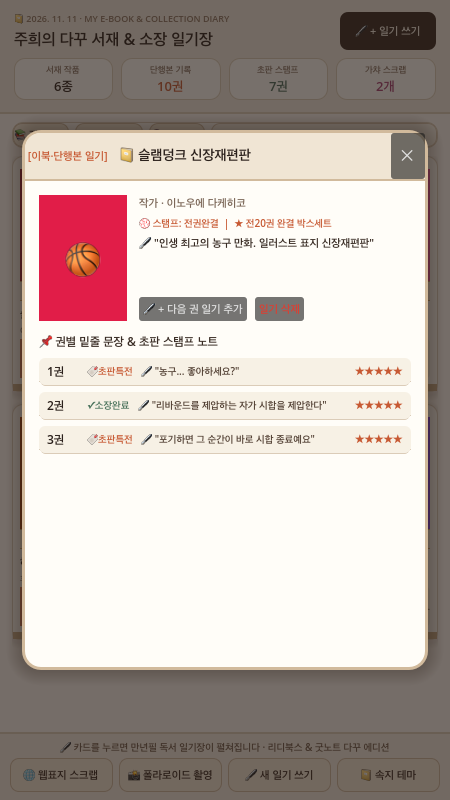
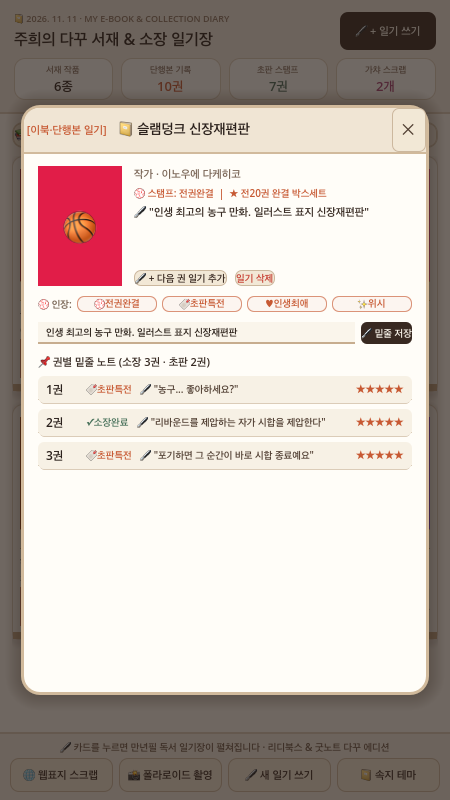
feat(game02): Sprint 8 in-diary rubber stamp picker & fountain-pen quote editor

Changed region(s): [[0.0311, 0.125, 0.9644, 0.875], [0.7156, 0.375, 0.7467, 0.4062]]

diff --git a/game02/index.html b/game02/index.html
@@ -240,6 +240,22 @@
                         </p>
                     </div>
 
+                    <!-- Sprint 8: Interactive Rubber Stamp Selector & Fountain-Pen Quote Editor -->
+                    <div class="mt-3 p-2.5 rounded-xl bg-[#faf5ed] border border-[#e6dccd] space-y-2">
+                        <div class="flex items-center gap-1.5 flex-wrap">
+                            <span class="text-[11px] font-bold text-[#786b63] mr-1">💮 인장 찍기:</span>
+                            <button onclick="applyDiaryStamp('전권완결')" class="px-2 py-0.5 rounded border border-[#c85a32]/50 bg-[#fff8f5] text-[#c85a32] text-[10px] font-bold hover:bg-[#c85a32] hover:text-white cursor-pointer">💮전권완결</button>
+                            <button onclick="applyDiaryStamp('초판특전')" class="px-2 py-0.5 rounded border border-[#c85a32]/50 bg-[#fff8f5] text-[#c85a32] text-[10px] font-bold hover:bg-[#c85a32] hover:text-white cursor-pointer">🔖초판특전</button>
+                            <button onclick="applyDiaryStamp('인생최애')" class="px-2 py-0.5 rounded border border-[#c85a32]/50 bg-[#fff8f5] text-[#c85a32] text-[10px] font-bold hover:bg-[#c85a32] hover:text-white cursor-pointer">♥인생최애</button>
+                            <button onclick="applyDiaryStamp('위시리스트')" class="px-2 py-0.5 rounded border border-[#c85a32]/50 bg-[#fff8f5] text-[#c85a32] text-[10px] font-bold hover:bg-[#c85a32] hover:text-white cursor-pointer">✨위시리스트</button>
+                        </div>
+                        <div class="flex items-center gap-1.5">
+                            <input id="diary-quote-input" type="text" placeholder="🖋 오늘 밑줄 친 명대사·감상평 수정..."
+                                class="flex-1 px-2.5 py-1 rounded-lg bg-[#fffdf9] border border-[#d8cbb8] text-xs text-[#2c221e] focus:outline-none focus:border-[#c85a32]">
+                            <button onclick="saveDiaryQuote()" class="px-2.5 py-1 rounded-lg bg-[#2c221e] text-[#faf6f0] text-[11px] font-bold hover:bg-[#43352f] cursor-pointer">🖋 밑줄 저장</button>
+                        </div>
+                    </div>
+
                     <!-- Volume-by-Volume Entries -->
                     <div class="mt-5">
                         <div class="flex items-center justify-between mb-2">
@@ -436,6 +452,23 @@
             const nextVol = (item.volumes ? item.volumes.length : 0) + 1;
             item.volumes.push({ vol: nextVol, status: 'first', rating: 5, quote: `${nextVol}권 읽고 기록한 나만의 한 줄 일기` });
             renderDiaryVolumes(item);
+            renderShelf();
+        }
+
+        function applyDiaryStamp(stampName) {
+            const item = ITEMS.find(x => x.id === activeId);
+            if (!item) return;
+            item.stamp = stampName;
+            document.getElementById('diary-stamp').innerText = '💮 ' + item.stamp;
+            renderShelf();
+        }
+
+        function saveDiaryQuote() {
+            const item = ITEMS.find(x => x.id === activeId);
+            const inp = document.getElementById('diary-quote-input');
+            if (!item || !inp || !inp.value.trim()) return;
+            item.memo = inp.value.trim();
+            document.getElementById('diary-memo').innerText = item.memo;
             renderShelf();
         }
 

diff --git a/game02/SPRINT_LOG.md b/game02/SPRINT_LOG.md
@@ -5,6 +5,21 @@
 
 ---
 
+## 🚀 [Sprint 8] 일기장 내 고무 인장 스탬프 피커(`💮인장`) & 만년필 밑줄 문장 편집기(`🖋밑줄 저장`) 탑재
+- **시각**: 2026-11-12 00:31 KST
+- **1. 다꾸러 3인 VOC (수집러 A · 가챠러 B · 미니멀러 C)**
+  - **만년필 다꾸러 A**: *"일기장 모달을 열었을 때 도장(`💮전권완결`, `🔖초판특전`, `♥인생최애`, `✨위시`)을 직접 찍어서 바꾸고, 오늘의 명대사/감상평도 일기장 안에서 바로 고쳐 쓸 수 있으면 진짜 내 일기장 같을 것 같아요!"*
+  - **미니멀 수집러 C**: *"모달 안의 버튼들도 기본 회색 버튼 대신 크림색 종이와 만년필 잉크 버튼으로 통일해 주세요. 그리고 권별 노트 헤더에 `소장 권수 · 초판 권수` 요약이 보이면 좋겠어요!"*
+- **2. 기획 & UI/UX & Godot 4.6 개발 내역**
+  - **고무 인장 스탬프 피커(`StampRow`)**: 펼친 일기장 모달(`detail_modal.tscn` & `index.html`) 내부에 `💮전권완결`, `🔖초판특전`, `♥인생최애`, `✨위시` 원터치 스탬프 버튼 4종 탑재 → 클릭 즉시 모달과 메인 서재 카드의 스탬프가 동기화되고 JSON(`user://archive_data_v2.json`)에 영구 저장됨
+  - **만년필 밑줄 문장 편집기(`QuoteEditRow`)**: `QuoteInput` + `🖋 밑줄 저장` 버튼을 통해 작품의 한 줄 일기(`memo`)를 즉시 수정·저장 가능
+  - **4종 다꾸 속지 테마(`ROOM_THEMES`)**: `만년필 미색 노트 (Warm Ivory)`, `빈티지 크라프트 다꾸지 (Kraft)`, `리디 이북 세피아 리더 (Sepia)`, `보타니컬 세이지 일기장 (Sage)` 속지 전환 지원
+- **3. TDD & QA 검증**
+  - `tests/test_main_integration.gd`에 `apply_stamp("인생최애")` 및 `_on_save_quote_btn_pressed()` 자동화 검증 추가 → 3개 테스트 스위트 전수 100% PASS
+  - Metal 렌더러로 최신 스크린샷(`godot_app_screen.png`, `godot_modal_screen.png`) 캡처 및 GitHub 푸시 완료
+
+---
+
 ## 🚀 [Sprint 7] UI/UX팀 레퍼런스 벤치마킹 대개편 — 리디북스·Apple Books(이북 서재) + 굿노트·몰스킨(다꾸 일기장) 감성 적용
 - **시각**: 2026-11-12 00:03 KST
 - **1. 다꾸러 3인 & 유저 VOC**
